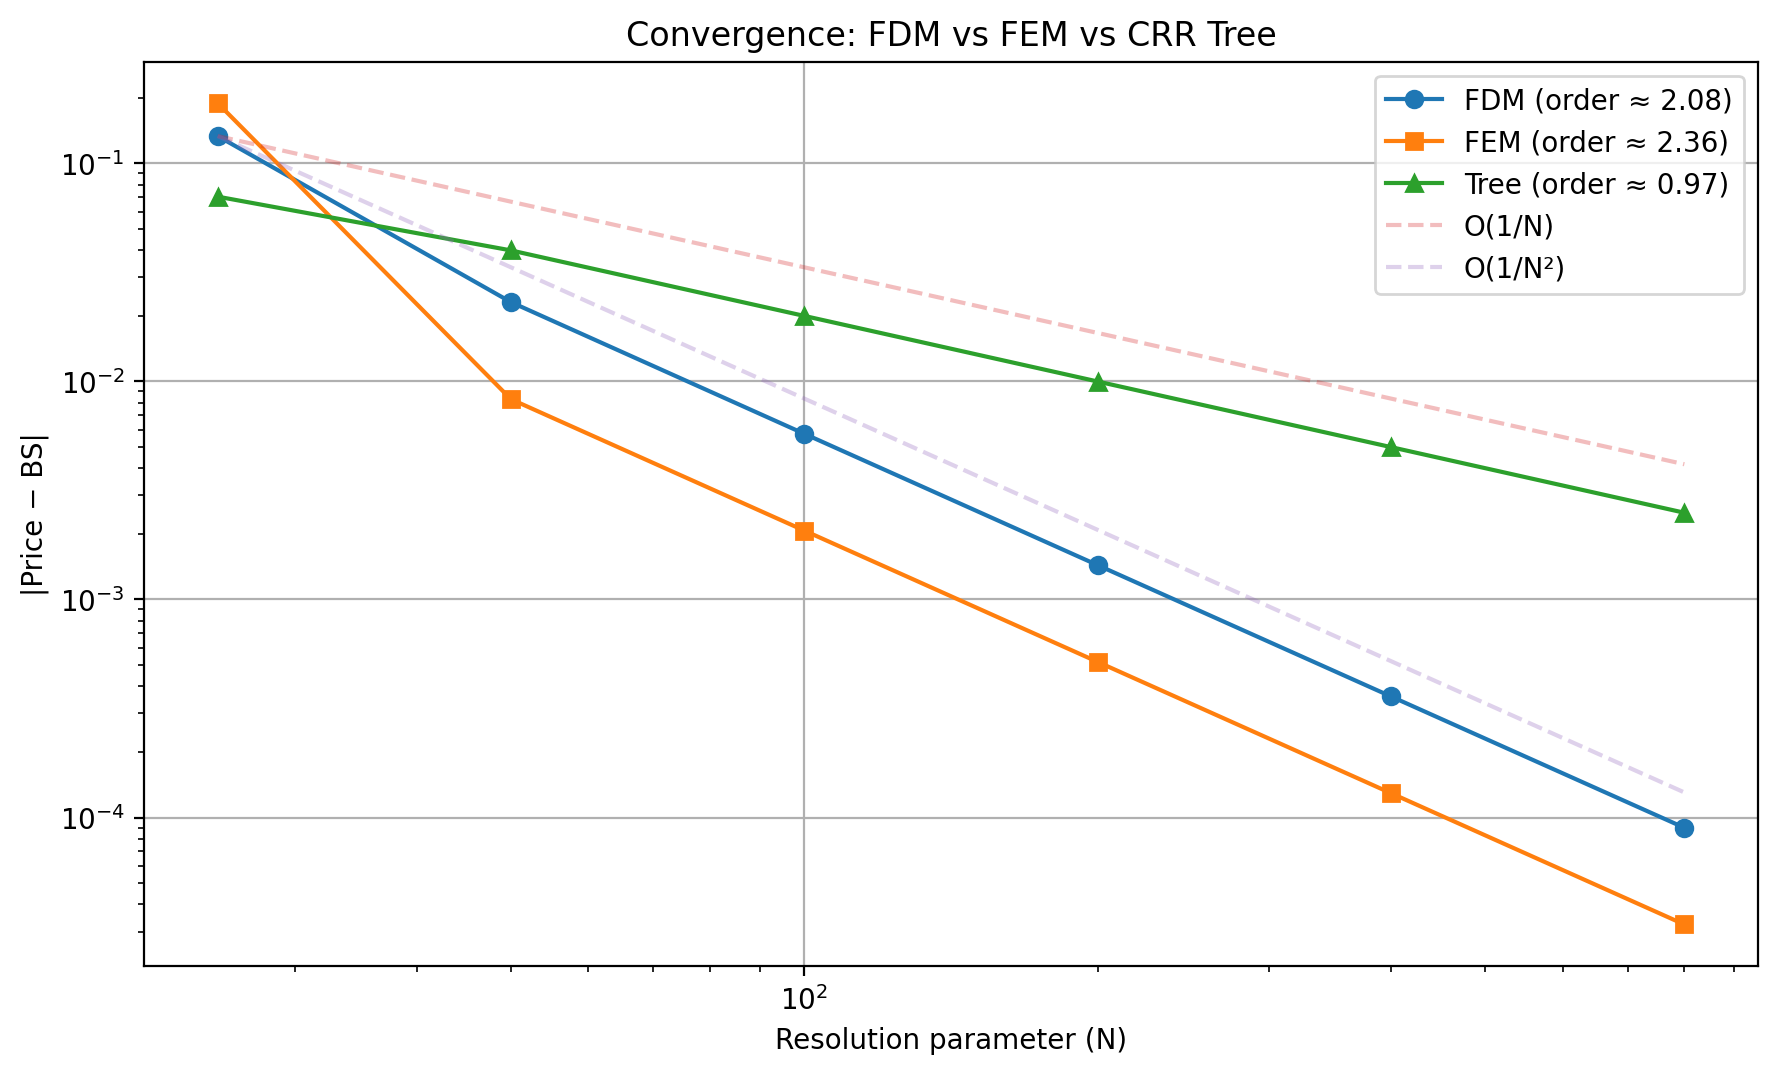
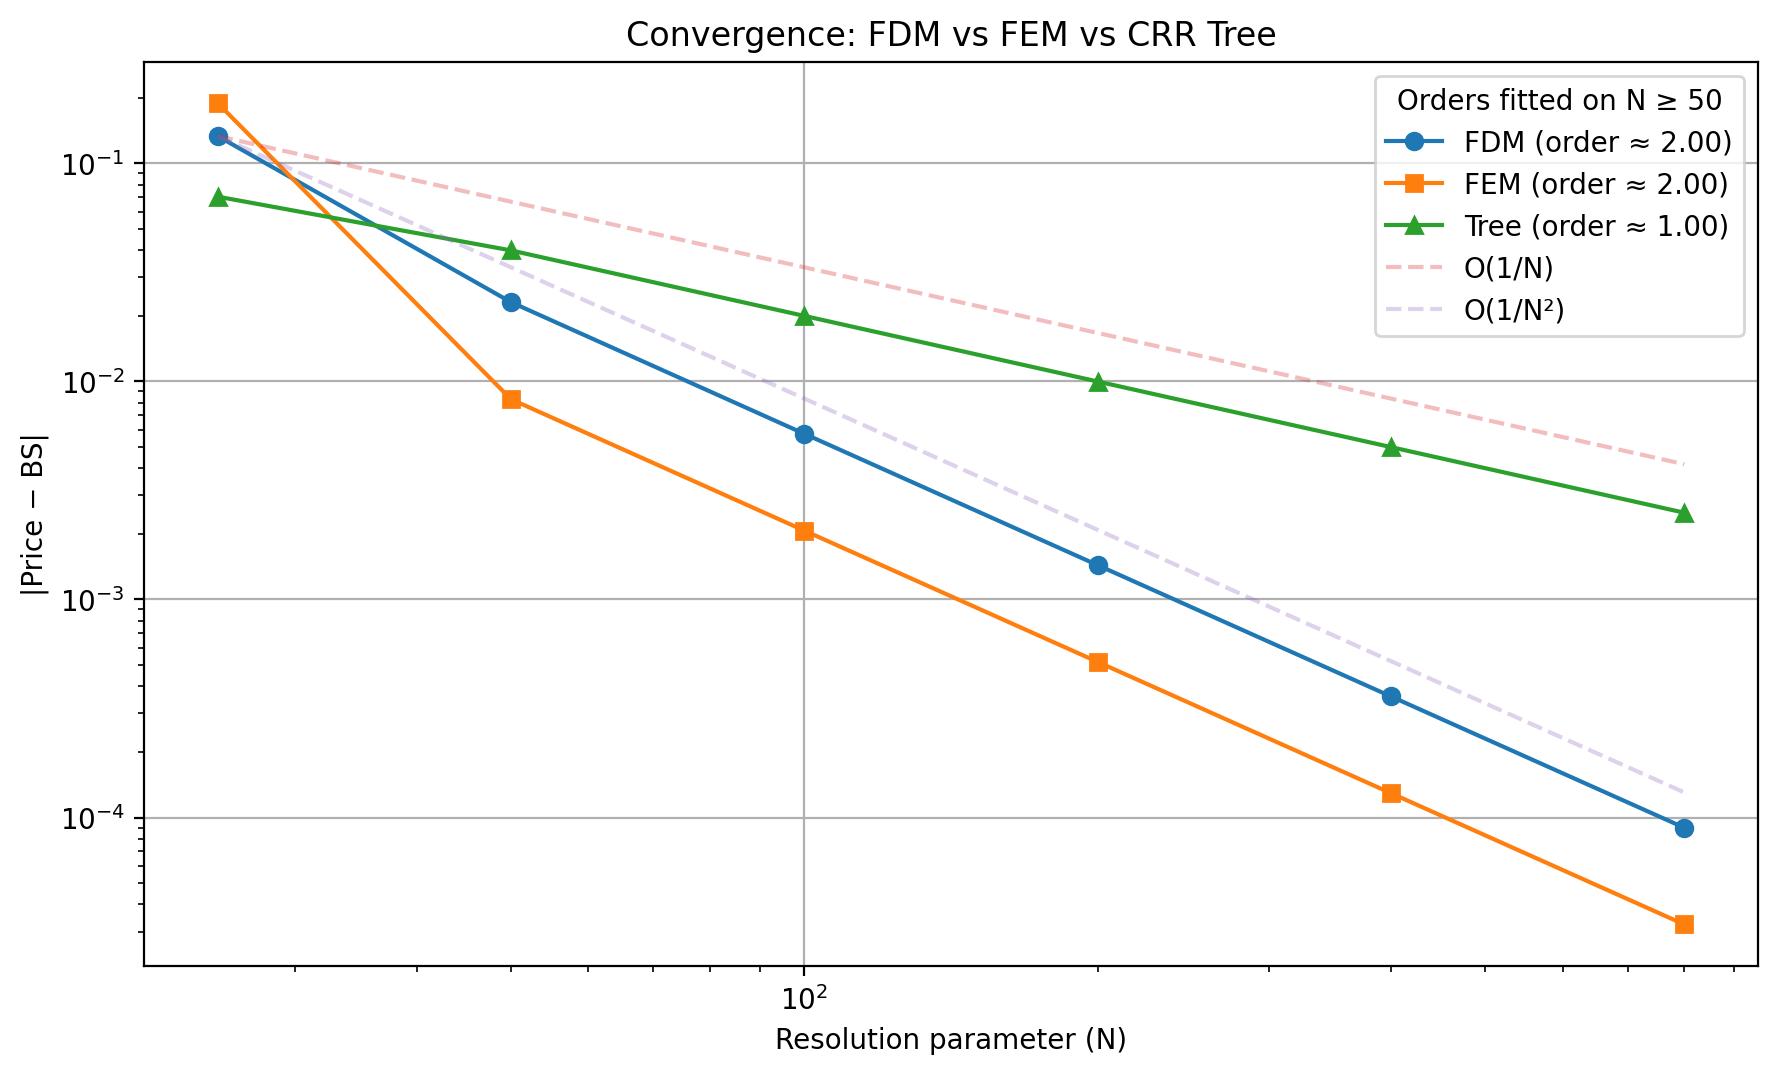
Regenerate the README convergence figure for the new legend
Notebook 07 now fits the convergence orders from N = 50, so its legend reads
2.00, 2.00 and 1.00 under "Orders fitted on N >= 50". The README image is
re-rendered from that cell, and the caption no longer says the legend's fits
include N = 25.

Changed region(s): [[0.7738, 0.0615, 0.9904, 0.2765], [0.7738, 0.2458, 0.8666, 0.3073]]

diff --git a/README.md b/README.md
@@ -73,8 +73,8 @@ A comprehensive options pricing library with **five independent pricing engines*
 - **Delta-hedge backtesting** — P&L simulation from hedging along GBM paths
 
 <p align="center">
-  <img src="docs/images/convergence-fdm-fem-tree.png" width="700" alt="Log-log plot of absolute pricing error against the Black-Scholes price for N from 25 to 800, for FDM, FEM and the CRR tree, with 1/N and 1/N-squared reference lines. At N = 800 the errors are about 9e-5 for FDM, 3e-5 for FEM and 2.5e-3 for the tree.">
-  <br><em>Error against the Black-Scholes price for an at-the-money one-year call (spot = strike = 100, r = 5%, σ = 20%) as the grid size or tree steps N grow from 25 to 800. From N = 50 on, FDM and FEM errors fall at second order and the CRR tree's at first order. The fitted orders in the legend include the N = 25 point. From <a href="notebooks/07_Risk_and_Validation.ipynb">notebook 07</a>.</em>
+  <img src="docs/images/convergence-fdm-fem-tree.png" width="700" alt="Log-log plot of absolute pricing error against the Black-Scholes price for N from 25 to 800, for FDM, FEM and the CRR tree, with 1/N and 1/N-squared reference lines. At N = 800 the errors are about 9e-5 for FDM, 3e-5 for FEM and 2.5e-3 for the tree. The legend gives orders fitted from N = 50: 2.00, 2.00 and 1.00.">
+  <br><em>Error against the Black-Scholes price for an at-the-money one-year call (spot = strike = 100, r = 5%, σ = 20%) as the grid size or tree steps N grow from 25 to 800. From N = 50 on, FDM and FEM errors fall at second order and the CRR tree's at first order, as the orders fitted in the legend show. From <a href="notebooks/07_Risk_and_Validation.ipynb">notebook 07</a>.</em>
 </p>
 
 <p align="center">
